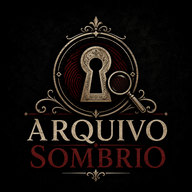
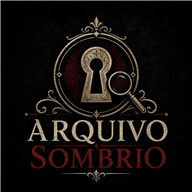
perf(imagens): comprime fotos pesadas e corrige icones do PWA
- luminol/papiloscopia/somerton: PNG de 2,1-2,5MB -> JPEG de 150-200KB (largura 1400px, qualidade 82)

- icon-192.png/icon-512.png: gerados nos tamanhos corretos (eram PNG de 1,9MB com extensao dupla icon-*.png.PNG, causando 404 no manifest = icone letra A)

- removidos arquivos de imagem de 0 byte e PNGs pesados

- compat: salvamento de dossie repete operacao sem status_publicacao/slug se a migracao SQL ainda nao foi aplicada

- cache-bust data/caso.js e script.js v=20260915-2

diff --git a/js/script.js b/js/script.js
@@ -9636,7 +9636,67 @@ if (
 
         if (resultado.error) {
 
-            throw resultado.error;
+            /*
+             * Compatibilidade: se a migração SQL
+             * ainda não foi aplicada, o banco não
+             * conhece status_publicacao/slug.
+             * Repete a operação sem esses campos
+             * em vez de falhar.
+             */
+
+            const mensagemErro =
+                String(
+                    resultado.error.message ||
+                    ""
+                );
+
+            const faltaColuna =
+                mensagemErro.includes(
+                    "status_publicacao"
+                ) ||
+                mensagemErro.includes(
+                    "'slug'"
+                );
+
+            if (faltaColuna) {
+
+                const casoCompativel =
+                    {
+                        ...caso
+                    };
+
+                delete casoCompativel.status_publicacao;
+
+                delete casoCompativel.slug;
+
+                resultado =
+                    casoExistente
+                        ? await supabaseClient
+                              .from("Casos")
+                              .update(casoCompativel)
+                              .eq(
+                                  "id",
+                                  casoExistente.id
+                              )
+                              .select()
+                              .single()
+                        : await supabaseClient
+                              .from("Casos")
+                              .insert([
+                                  casoCompativel
+                              ])
+                              .select()
+                              .single();
+
+                if (resultado.error) {
+
+                    throw resultado.error;
+                }
+
+            } else {
+
+                throw resultado.error;
+            }
         }
 
 

diff --git a/data/caso.js b/data/caso.js
@@ -1,4 +1,4 @@
-/* ==========================================================================
+/* ==========================================================================
    ARQUIVO SOMBRIO
    BANCO DE DADOS PRINCIPAL — CASOS, MISTÉRIOS E PERÍCIA
    ========================================================================== */
@@ -73,7 +73,7 @@ teorias: [
 
         status: "TÉCNICO / METODOLÓGICO",
 
-        imagem: "imagens/forense/luminol.PNG",
+        imagem: "imagens/forense/luminol.jpg",
 
         resumo:
             "Análise introdutória sobre o uso de reagentes quimioluminescentes na localização de possíveis vestígios de sangue em investigações forenses.",
@@ -113,7 +113,7 @@ teorias: [
 
         status: "CASO HISTÓRICO",
 
-        imagem: "imagens/misterio/somerton.PNG",
+        imagem: "imagens/misterio/somerton.jpg",
 
         resumo:
             "Um homem foi encontrado morto na praia de Somerton, dando origem a uma das investigações de identidade mais intrigantes da Austrália.",
@@ -295,7 +295,7 @@ teorias: [
 
         status: "TÉCNICO / METODOLÓGICO",
 
-        imagem: "imagens/forense/papiloscopia.PNG",
+        imagem: "imagens/forense/papiloscopia.jpg",
 
         resumo:
             "Introdução aos princípios utilizados na identificação papiloscópica e no confronto de impressões digitais.",

diff --git a/dossies.html b/dossies.html
@@ -2324,7 +2324,7 @@
          primeiro os dados, depois a lógica.
          ================================================================ -->
 
-    <script src="data/caso.js" defer></script>
+    <script src="data/caso.js?v=20260915-2" defer></script>
     <script src="js/script.js?v=20260915-1" defer></script>
     <script src="js/filtros.js" defer></script>
 

diff --git a/forum.html b/forum.html
@@ -2321,7 +2321,7 @@
          primeiro os dados, depois a lógica.
          ================================================================ -->
 
-    <script src="data/caso.js" defer></script>
+    <script src="data/caso.js?v=20260915-2" defer></script>
     <script src="js/script.js?v=20260915-1" defer></script>
     <script src="js/filtros.js" defer></script>
 

diff --git a/index.html b/index.html
@@ -2658,7 +2658,7 @@
          primeiro os dados, depois a lógica.
          ================================================================ -->
 
-    <script src="data/caso.js" defer></script>
+    <script src="data/caso.js?v=20260915-2" defer></script>
     <script src="js/script.js?v=20260915-1" defer></script>
     <script src="js/filtros.js" defer></script>
 

diff --git a/pericia.html b/pericia.html
@@ -2267,7 +2267,7 @@
          primeiro os dados, depois a lógica.
          ================================================================ -->
 
-    <script src="data/caso.js" defer></script>
+    <script src="data/caso.js?v=20260915-2" defer></script>
     <script src="js/script.js?v=20260915-1" defer></script>
     <script src="js/filtros.js" defer></script>
 

diff --git a/sugerir.html b/sugerir.html
@@ -2321,7 +2321,7 @@
          primeiro os dados, depois a lógica.
          ================================================================ -->
 
-    <script src="data/caso.js" defer></script>
+    <script src="data/caso.js?v=20260915-2" defer></script>
     <script src="js/script.js?v=20260915-1" defer></script>
     <script src="js/filtros.js" defer></script>
 

diff --git a/garimpo.html b/garimpo.html
@@ -69,7 +69,7 @@
         <div class="container footer-bottom"><p>&copy; 2026 Arquivo Sombrio.</p><p>Conteúdo documental e editorial.</p></div>
     </footer>
 
-    <script src="data/caso.js" defer></script>
+    <script src="data/caso.js?v=20260915-2" defer></script>
     <script src="js/script.js?v=20260915-1" defer></script>
 </body>
 </html>

diff --git a/dossies/caso-dana-chandler.html b/dossies/caso-dana-chandler.html
@@ -528,7 +528,7 @@
     <script>window.ARQUIVO_CASO_ID = "5";</script>
 
     <script
-        src="data/caso.js"
+        src="data/caso.js?v=20260915-2"
         defer
     ></script>
 

diff --git a/dossies/caso-isabella-nardoni.html b/dossies/caso-isabella-nardoni.html
@@ -528,7 +528,7 @@
     <script>window.ARQUIVO_CASO_ID = "2";</script>
 
     <script
-        src="data/caso.js"
+        src="data/caso.js?v=20260915-2"
         defer
     ></script>
 

diff --git a/dossies/caso-jonbenet-ramsey.html b/dossies/caso-jonbenet-ramsey.html
@@ -528,7 +528,7 @@
     <script>window.ARQUIVO_CASO_ID = "7";</script>
 
     <script
-        src="data/caso.js"
+        src="data/caso.js?v=20260915-2"
         defer
     ></script>
 

diff --git a/dossies/gemeos-reimer-john-money.html b/dossies/gemeos-reimer-john-money.html
@@ -528,7 +528,7 @@
     <script>window.ARQUIVO_CASO_ID = "8";</script>
 
     <script
-        src="data/caso.js"
+        src="data/caso.js?v=20260915-2"
         defer
     ></script>
 
